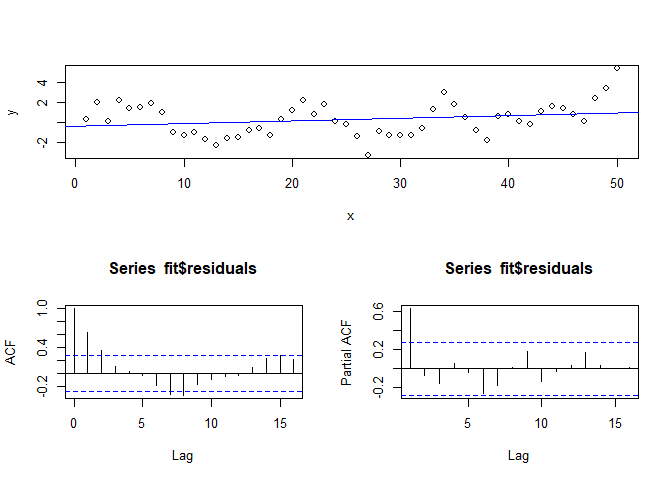
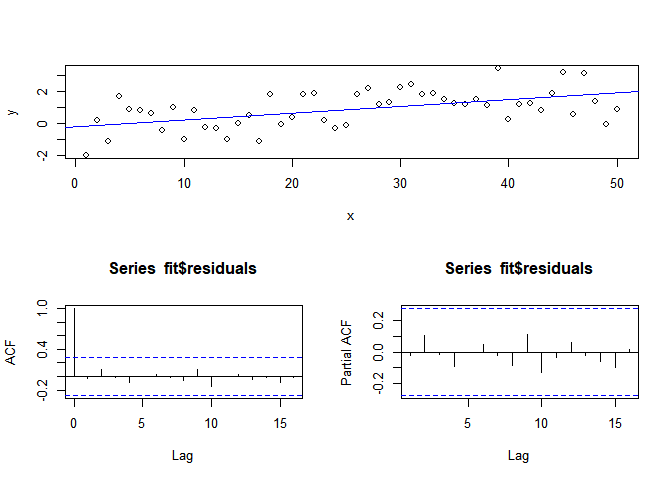
Improve doc structure

diff --git a/src/2022-03-08_newey-west-heteroskedasticity-and-autocorrelation-robust-errors.md b/src/2022-03-08_newey-west-heteroskedasticity-and-autocorrelation-robust-errors.md
@@ -84,6 +84,15 @@ layout(mat = layout.matrix)
 
 ``` r
 get_slope_line_vector_from_arima <- function(arima_model_fitted){
+  # Args: 
+  # - arima_model_fitted: Fitted ARIMA model, such as the models returned 
+  #     by forecast::auto.arima()
+  # 
+  # Returns: 
+  # - line_vector: A numeric vector of same length as the data passed to 
+  #     the ARIMA fitting procedure. These values represent the underlying 
+  #     linear trend after fitting the ARIMA model 
+  
   if (is.na(arima_model_fitted$coef["intercept"])) {
     intercept <- 0
   } else {
@@ -105,10 +114,9 @@ get_slope_line_vector_from_arima <- function(arima_model_fitted){
 
 # 4 Example 1: White noise error (base case)
 
-``` r
-layout.matrix <- matrix(c(1, 2, 1, 3), nrow = 2, ncol = 2)
-layout(mat = layout.matrix)
+First set up the data.
 
+``` r
 n <- 50
 slope <- .05
 
@@ -116,6 +124,14 @@ slope <- .05
 white_noise_residuals <- rnorm(n)
 x <- 1:n
 y <- slope*(x) + white_noise_residuals
+```
+
+Fit lm model, and plot.
+
+``` r
+layout.matrix <- matrix(c(1, 2, 1, 3), nrow = 2, ncol = 2)
+layout(mat = layout.matrix)
+
 
 fit <- lm(y~x)
 
@@ -125,7 +141,9 @@ acf(fit$residuals)
 pacf(fit$residuals)
 ```
 
-![](2022-03-08_newey-west-heteroskedasticity-and-autocorrelation-robust-errors_files/figure-gfm/unnamed-chunk-3-1.png)<!-- -->
+![](2022-03-08_newey-west-heteroskedasticity-and-autocorrelation-robust-errors_files/figure-gfm/unnamed-chunk-4-1.png)<!-- -->
+
+Model output, using standard and Newey-West HAC errors:
 
 ``` r
 summary(fit) # standard estimates
@@ -136,59 +154,44 @@ summary(fit) # standard estimates
     ## lm(formula = y ~ x)
     ## 
     ## Residuals:
-    ##     Min      1Q  Median      3Q     Max 
-    ## -2.2314 -0.5123  0.1399  0.6037  2.2652 
+    ##      Min       1Q   Median       3Q      Max 
+    ## -1.91022 -0.69829 -0.00632  0.78111  1.97382 
     ## 
     ## Coefficients:
-    ##             Estimate Std. Error t value Pr(>|t|)    
-    ## (Intercept) -0.34269    0.26606  -1.288    0.204    
-    ## x            0.06563    0.00908   7.227  3.3e-09 ***
+    ##              Estimate Std. Error t value Pr(>|t|)    
+    ## (Intercept) -0.177713   0.288546  -0.616    0.541    
+    ## x            0.041997   0.009848   4.265 9.34e-05 ***
     ## ---
     ## Signif. codes:  0 '***' 0.001 '**' 0.01 '*' 0.05 '.' 0.1 ' ' 1
     ## 
-    ## Residual standard error: 0.9266 on 48 degrees of freedom
-    ## Multiple R-squared:  0.5211, Adjusted R-squared:  0.5111 
-    ## F-statistic: 52.23 on 1 and 48 DF,  p-value: 3.301e-09
+    ## Residual standard error: 1.005 on 48 degrees of freedom
+    ## Multiple R-squared:  0.2748, Adjusted R-squared:  0.2597 
+    ## F-statistic: 18.19 on 1 and 48 DF,  p-value: 9.339e-05
 
 ``` r
 coeftest(fit, vcov = NeweyWest(fit, verbose = T))
 ```
 
     ## 
-    ## Lag truncation parameter chosen: 1
+    ## Lag truncation parameter chosen: 0
 
     ## 
     ## t test of coefficients:
     ## 
     ##               Estimate Std. Error t value  Pr(>|t|)    
-    ## (Intercept) -0.3426888  0.1904078 -1.7998   0.07819 .  
-    ## x            0.0656255  0.0060779 10.7974 1.936e-14 ***
+    ## (Intercept) -0.1777131  0.2383330 -0.7457    0.4595    
+    ## x            0.0419974  0.0088762  4.7315 1.999e-05 ***
     ## ---
     ## Signif. codes:  0 '***' 0.001 '**' 0.01 '*' 0.05 '.' 0.1 ' ' 1
 
+Fit ARIMA model, and plot
+
 ``` r
+layout.matrix <- matrix(c(1, 2, 1, 3), nrow = 2, ncol = 2)
+layout(mat = layout.matrix)
+
 fit_arima <- auto.arima(y, xreg = x)
-summary(fit_arima)
-```
 
-    ## Series: y 
-    ## Regression with ARIMA(0,0,1) errors 
-    ## 
-    ## Coefficients:
-    ##           ma1  intercept    xreg
-    ##       -0.2802    -0.3284  0.0650
-    ## s.e.   0.1320     0.1841  0.0063
-    ## 
-    ## sigma^2 = 0.8084:  log likelihood = -64.12
-    ## AIC=136.25   AICc=137.14   BIC=143.9
-    ## 
-    ## Training set error measures:
-    ##                        ME      RMSE       MAE     MPE     MAPE      MASE
-    ## Training set -0.002247963 0.8717236 0.7043367 2.29856 125.1323 0.6075731
-    ##                     ACF1
-    ## Training set -0.01213301
-
-``` r
 plot(x,y)
 lines(fit_arima$fitted, col = "blue")
 lines(get_slope_line_vector_from_arima(fit_arima), col = "darkgreen")
@@ -196,7 +199,30 @@ acf(fit_arima$residuals)
 pacf(fit_arima$residuals)
 ```
 
-![](2022-03-08_newey-west-heteroskedasticity-and-autocorrelation-robust-errors_files/figure-gfm/unnamed-chunk-3-2.png)<!-- -->
+![](2022-03-08_newey-west-heteroskedasticity-and-autocorrelation-robust-errors_files/figure-gfm/unnamed-chunk-6-1.png)<!-- -->
+
+ARIMA model output:
+
+``` r
+summary(fit_arima)
+```
+
+    ## Series: y 
+    ## Regression with ARIMA(0,0,0) errors 
+    ## 
+    ## Coefficients:
+    ##         xreg
+    ##       0.0367
+    ## s.e.  0.0048
+    ## 
+    ## sigma^2 = 0.997:  log likelihood = -70.37
+    ## AIC=144.73   AICc=144.99   BIC=148.56
+    ## 
+    ## Training set error measures:
+    ##                       ME      RMSE       MAE      MPE     MAPE      MASE
+    ## Training set -0.04310863 0.9884771 0.8323149 82.53892 358.4746 0.7657765
+    ##                     ACF1
+    ## Training set -0.02085614
 
 # 5 Example 2: Autocorrelated error
 
@@ -230,7 +256,7 @@ acf(fit$residuals)
 pacf(fit$residuals)
 ```
 
-![](2022-03-08_newey-west-heteroskedasticity-and-autocorrelation-robust-errors_files/figure-gfm/unnamed-chunk-4-1.png)<!-- -->
+![](2022-03-08_newey-west-heteroskedasticity-and-autocorrelation-robust-errors_files/figure-gfm/unnamed-chunk-8-1.png)<!-- -->
 
 ``` r
 summary(fit) # standard estimates
@@ -299,7 +325,7 @@ acf(fit_arima$residuals)
 pacf(fit_arima$residuals)
 ```
 
-![](2022-03-08_newey-west-heteroskedasticity-and-autocorrelation-robust-errors_files/figure-gfm/unnamed-chunk-4-2.png)<!-- -->
+![](2022-03-08_newey-west-heteroskedasticity-and-autocorrelation-robust-errors_files/figure-gfm/unnamed-chunk-8-2.png)<!-- -->
 
 In this specific example, where `seed =` 2, we can see that the OLS fit
 and the (OLS + HAC) fit find the estimate a slope value close to the
@@ -334,7 +360,7 @@ acf(fit$residuals)
 pacf(fit$residuals)
 ```
 
-![](2022-03-08_newey-west-heteroskedasticity-and-autocorrelation-robust-errors_files/figure-gfm/unnamed-chunk-5-1.png)<!-- -->
+![](2022-03-08_newey-west-heteroskedasticity-and-autocorrelation-robust-errors_files/figure-gfm/unnamed-chunk-9-1.png)<!-- -->
 
 ``` r
 summary(fit) # standard estimates
@@ -401,4 +427,4 @@ acf(fit_arima$residuals)
 pacf(fit_arima$residuals)
 ```
 
-![](2022-03-08_newey-west-heteroskedasticity-and-autocorrelation-robust-errors_files/figure-gfm/unnamed-chunk-5-2.png)<!-- -->
+![](2022-03-08_newey-west-heteroskedasticity-and-autocorrelation-robust-errors_files/figure-gfm/unnamed-chunk-9-2.png)<!-- -->
